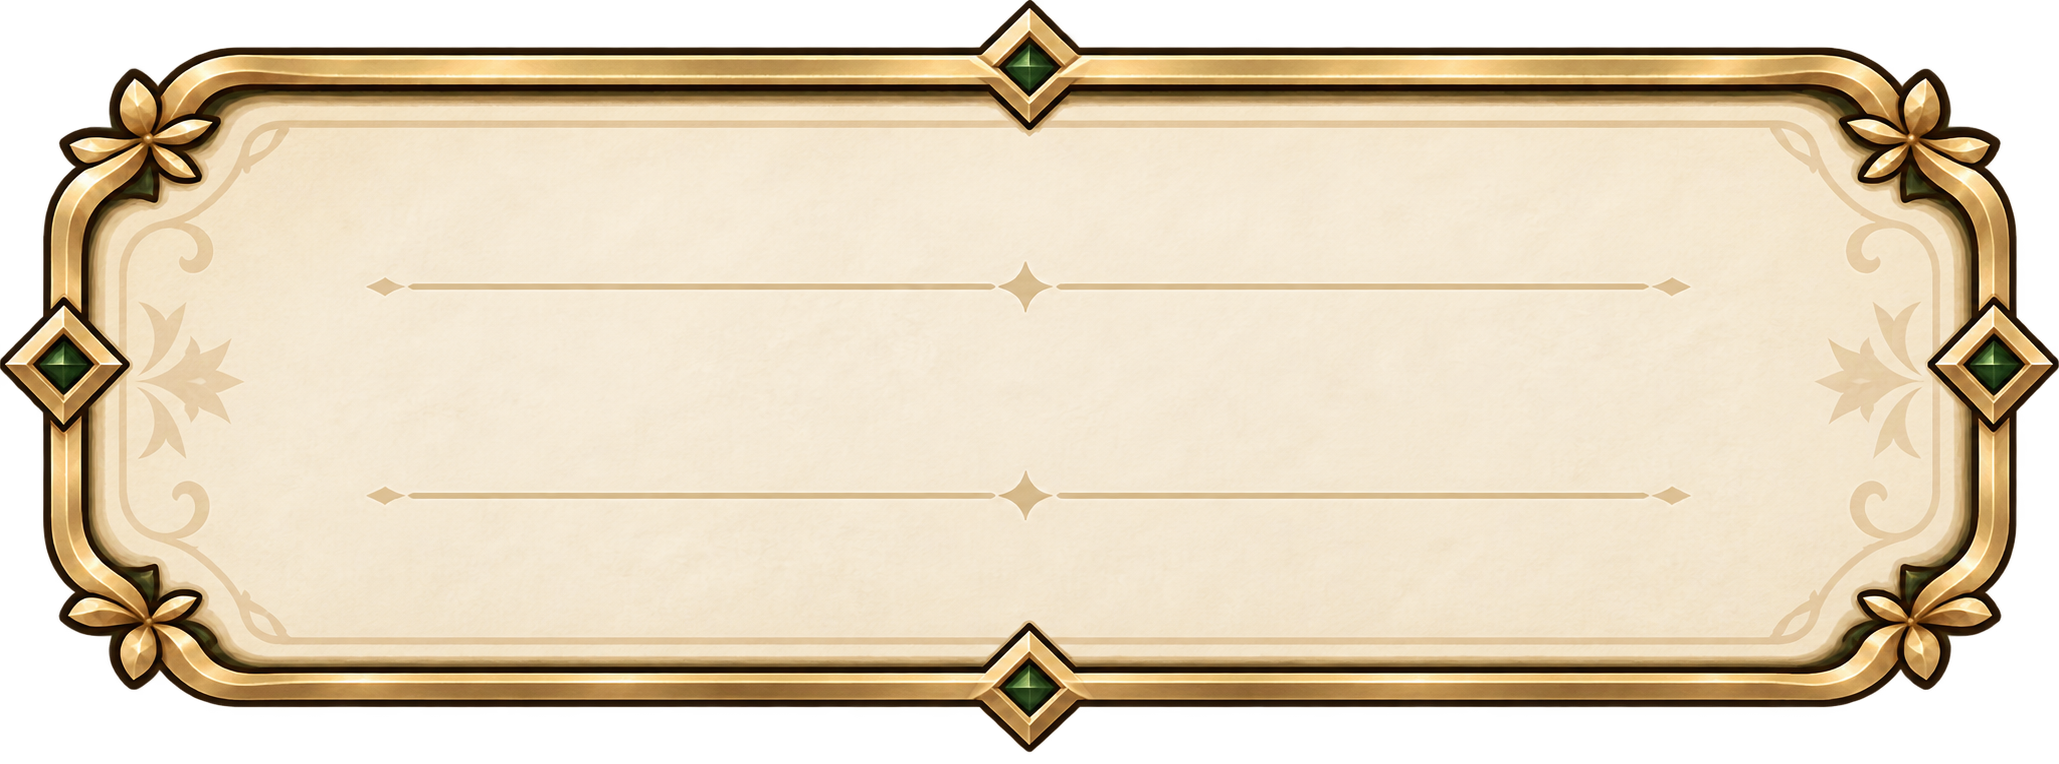
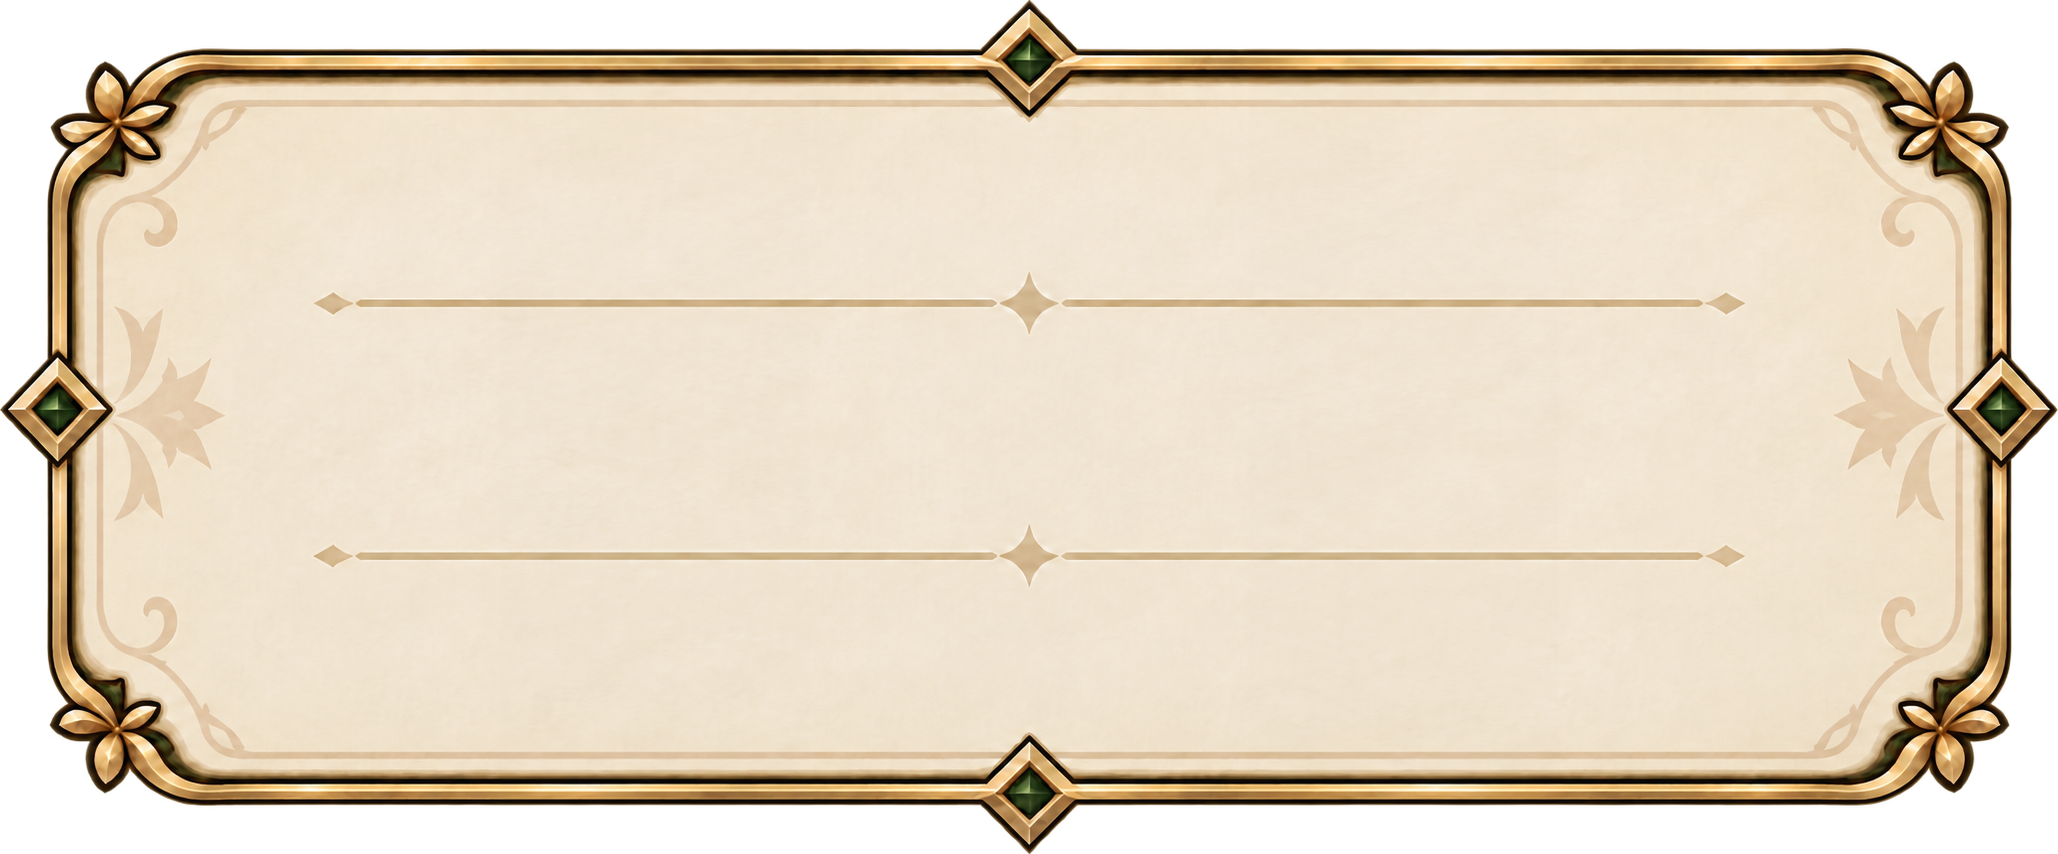
asset(ui): align myroom frame widths

Changed region(s): [[0.0, 0.0, 1.0, 1.0], [0.1555, 0.3312, 0.8397, 0.3914], [0.1555, 0.6322, 0.8707, 0.6623]]

diff --git a/asset/ui/README.md b/asset/ui/README.md
@@ -24,15 +24,15 @@
 
 ## 마이룸·일지 프레임과 조작 아이콘
 
-승인된 UI 재료 5장을 이 폴더에 보관합니다. `asset/item/`에서 이동했으며 복제본은 없습니다. 두 프레임은 글자 없는 같은 가로 폭의 마이룸 왼쪽 위 프로필·날짜 표시용이며, 화살표 두 방향과 첫 번째 X 시안은 일지 화면용입니다. 실제 화면 합성·클릭 연결은 별도 검수 대상입니다.
+승인된 UI 재료 5장을 이 폴더에 보관합니다. `asset/item/`에서 이동했으며 복제본은 없습니다. 두 프레임은 글자 없는 마이룸 왼쪽 위 프로필·날짜 표시용이며, 화살표 두 방향과 첫 번째 X 시안은 일지 화면용입니다. 두 프레임의 실제 가로 폭은 모두 2058px이며, 세로 길이는 프로필 764px·날짜 854px입니다. 실제 화면 합성·클릭 연결은 별도 검수 대상입니다.
 
-| 사용처 | 파일 · 미리보기 |
-|---|---|
-| 마이룸 프로필 | [녹색 프로필 프레임](./UI21_myroom_profile_frame_green.png)<br><img src="./UI21_myroom_profile_frame_green.png" width="160" alt="마이룸 프로필 프레임"> |
-| 마이룸 날짜 | [아이보리 날짜 프레임](./UI22_myroom_date_frame_ivory.png)<br><img src="./UI22_myroom_date_frame_ivory.png" width="160" alt="마이룸 날짜 프레임"> |
-| 일지 오른쪽 이동 | [오른쪽 화살표](./UI23_journal_arrow_right.png)<br><img src="./UI23_journal_arrow_right.png" width="70" alt="일지 오른쪽 화살표"> |
-| 일지 아래 방향 변형 | [아래 화살표](./UI24_journal_arrow_down.png)<br><img src="./UI24_journal_arrow_down.png" width="70" alt="일지 아래 화살표"> |
-| 일지 닫기 | [첫 번째 X 시안](./UI25_journal_close_x.png)<br><img src="./UI25_journal_close_x.png" width="70" alt="일지 닫기 X"> |
+| 사용처 | 파일 · 미리보기 | 실제 크기 |
+|---|---|---:|
+| 마이룸 프로필 | [녹색 프로필 프레임](./UI21_myroom_profile_frame_green.png)<br><img src="./UI21_myroom_profile_frame_green.png" width="160" alt="마이룸 프로필 프레임"> | 2058×764 |
+| 마이룸 날짜 | [아이보리 날짜 프레임](./UI22_myroom_date_frame_ivory.png)<br><img src="./UI22_myroom_date_frame_ivory.png" width="160" alt="마이룸 날짜 프레임"> | 2058×854 |
+| 일지 오른쪽 이동 | [오른쪽 화살표](./UI23_journal_arrow_right.png)<br><img src="./UI23_journal_arrow_right.png" width="70" alt="일지 오른쪽 화살표"> | 1280×1229 |
+| 일지 아래 방향 변형 | [아래 화살표](./UI24_journal_arrow_down.png)<br><img src="./UI24_journal_arrow_down.png" width="70" alt="일지 아래 화살표"> | 1280×1229 |
+| 일지 닫기 | [첫 번째 X 시안](./UI25_journal_close_x.png)<br><img src="./UI25_journal_close_x.png" width="70" alt="일지 닫기 X"> | 1254×1254 |
 
 ## 버튼
 

diff --git a/asset/README.md b/asset/README.md
@@ -11,7 +11,7 @@
 | [background/](background/README.md) | 장면·시간대별 공간 배경 · 이미지 31장 | `BG*, 기존 마이룸 계열` | MS/LOC/NPC의 BACKGROUND·마이룸; 채택과 후보 구분 |
 | [character/](character/README.md) | 학생 전신·교수 캐릭터·`요정의 거래` 전용 요정 캐릭터 · 이미지 35장 | `기존 32인 전신 이름` / `CH_DRM_fairy_trade_upperbody_01.png` | 캐스팅 조건에 맞는 화자 이미지와 기숙사 `DRM` 특수 활동에 사용하는 요정 캐릭터를 구분 |
 | [item/](item/README.md) · [모험 목표 15종](item/adventure/README.md) | 스토리 FOCUS·소품·가구·모험 목표 · 이미지 46장 | `IT_*` / `ADV_GH/LIB/OBS_*` | `ART-*` FOCUS와 `ADV_*` 모험 목표를 용도별로 검색; 후보는 자동 배치 금지 |
-| [ui/](ui/README.md) | 버튼·프레임·로고·환경 UI · 이미지 59장 | `BT / UI / LG 및 실행 호환 이름` | 마이룸 프로필·날짜, 일지 화살표·닫기, 대화·버튼 |
+| [ui/](ui/README.md) | 버튼·프레임·로고·환경 UI · 이미지 59장 | `BT / UI / LG 및 실행 호환 이름` | 마이룸 프로필·날짜 프레임 `UI21`·`UI22`(공통 가로 2058px), 일지 화살표·닫기, 대화·버튼 |
 | [map/](map/README.md) | 이동·충돌용 맵 · 이미지 22장 | `MP* 및 기존 참고 맵` | 장소별 이동 지형; BACKGROUND와 구분 |
 | [pet/](pet/README.md) | 펫·루루 의상/표정 · 이미지 28장 | `PT / NPC_LULU` | 루루 회차와 의상 번호를 구별해 검색 |
 | [sd_character/](sd_character/README.md) | SD 캐릭터 · 이미지 48장 | `기존 캐릭터별 SD 계열` | Adventure용 작은 캐릭터; 전신 대화 화자와 구분 |
